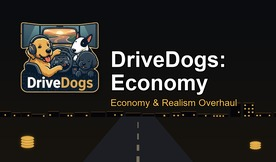
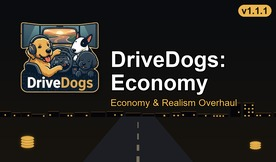
stamp the manifest version onto the cover image on every pack
the cover is the first thing players see in the mod manager, and a
version badge makes it obvious which build is installed. the pack
script's new prePack hook regenerates it from manifest.sii so it can't
drift from the packaged version

Changed region(s): [[0.8406, 0.0, 0.9855, 0.1235]]

diff --git a/tools/generate_cover.py b/tools/generate_cover.py
@@ -8,14 +8,20 @@ Composited at 4x (1104x648) then downscaled for anti-aliasing. Unlike the
 BetterFlares headlight mods, this one drops the oncoming-beam layer (not a
 headlight mod) but keeps the road graphic and gold/amber palette matching
 logo.png's own tones.
+
+The version badge is read from manifest.sii's package_version, so the cover
+always matches the build - pack.config.json's prePack runs this before every
+pack.
 """
 import random
+import re
 from pathlib import Path
 from PIL import Image, ImageDraw, ImageFont, ImageFilter
 
 ROOT = Path(__file__).resolve().parent.parent
 LOGO_PATH = ROOT / "logo.png"
 OUT_PATH = ROOT / "src" / "cover.jpg"
+MANIFEST_PATH = ROOT / "src" / "manifest.sii"
 
 SCALE = 4
 FINAL_SIZE = (276, 162)
@@ -33,6 +39,15 @@ SKYLINE_RIM_COLOR = (255, 170, 70)
 WINDOW_COLOR = (255, 196, 84)
 COIN_COLOR = (255, 196, 84)
 COIN_RIM_COLOR = (168, 122, 40)
+BADGE_COLOR = (255, 196, 84)
+BADGE_TEXT_COLOR = (20, 16, 10)
+
+
+def read_version():
+    m = re.search(r'^\s*package_version:\s*"([^"]+)"', MANIFEST_PATH.read_text(encoding="utf-8"), re.MULTILINE)
+    if not m:
+        raise SystemExit(f"No package_version in {MANIFEST_PATH}")
+    return m.group(1)
 
 
 def make_background(size):
@@ -211,17 +226,36 @@ def add_text(img):
     return img
 
 
+def add_version_badge(img, version):
+    """Amber pill in the empty top-right corner - clear of the logo, title,
+    skyline and coins, and still legible at the final 276x162 size."""
+    draw = ImageDraw.Draw(img, "RGBA")
+    w, h = img.size
+    text = f"v{version}"
+    font = ImageFont.truetype(FONT_BOLD, int(h * 0.06))
+    bbox = draw.textbbox((0, 0), text, font=font)
+    pad_x, pad_y = h * 0.02, h * 0.015
+    x1, y0 = w - h * 0.03, h * 0.03
+    x0 = x1 - (bbox[2] - bbox[0]) - 2 * pad_x
+    y1 = y0 + (bbox[3] - bbox[1]) + 2 * pad_y
+    draw.rounded_rectangle([x0, y0, x1, y1], radius=(y1 - y0) / 2, fill=(*BADGE_COLOR, 235))
+    draw.text((x0 + pad_x - bbox[0], y0 + pad_y - bbox[1]), text, font=font, fill=BADGE_TEXT_COLOR)
+    return img
+
+
 def main():
+    version = read_version()
     img = make_background(CANVAS_SIZE)
     img = add_skyline(img)
     img = add_road(img)
     img = add_money_motif(img)
     img = paste_logo(img)
     img = add_text(img)
+    img = add_version_badge(img, version)
     img = img.resize(FINAL_SIZE, Image.LANCZOS)
     OUT_PATH.parent.mkdir(parents=True, exist_ok=True)
     img.save(OUT_PATH, "JPEG", quality=92)
-    print(f"Wrote {OUT_PATH} ({img.size[0]}x{img.size[1]})")
+    print(f"Wrote {OUT_PATH} ({img.size[0]}x{img.size[1]}, v{version})")
 
 
 if __name__ == "__main__":

diff --git a/README.md b/README.md
@@ -92,6 +92,11 @@ Mods reviewed for design comparison (not redistributed, not copied wholesale):
 
 Requires `scs_packer` (and `scs_extractor`, for verification) on `PATH`.
 
+Every pack first runs `pack.config.json`'s `prePack` step, `python tools/generate_cover.py`, which
+regenerates `src/cover.jpg` with the current `manifest.sii` version in its top-right badge — so
+Python 3 with Pillow (`pip install pillow`) is also required. Commit the regenerated cover
+alongside a version bump.
+
 - **Local**: `scripts/pack-mod-local.ps1 -RepoRoot <path to this repo>` — produces a versioned
   `.scs` in `output/local/`, named from `pack.config.json`'s `packageName` and
   `manifest.sii`'s `package_version`.
